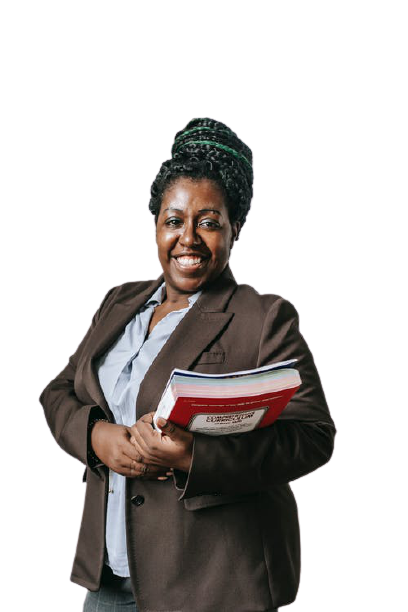
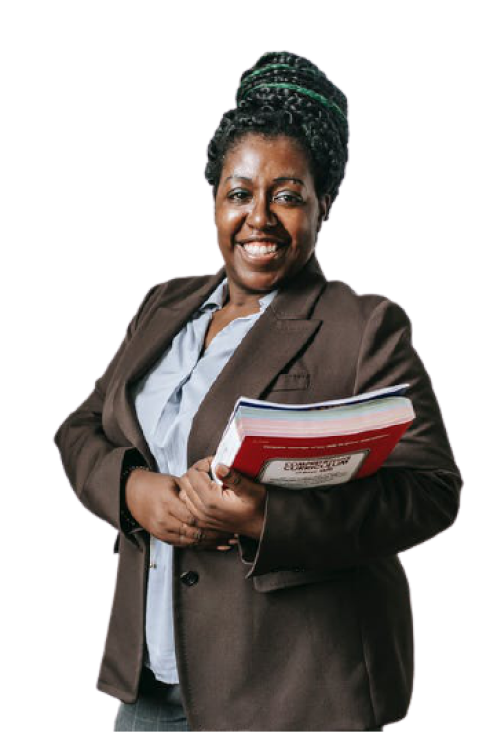
become-a-teacher modifications/fixes

diff --git a/src/containers/bctContent/Start.jsx b/src/containers/bctContent/Start.jsx
@@ -3,14 +3,14 @@ import teacher from '../../assets/img/bb-teach.png';
 import Button from '../../components/button/Button';
 
 const Start = () => (
-  <section className='relative'>
-    <div className="grid grid-cols-12 gap-y-5 gap-x-7 items-center">
+  <section className='relative mt-16 lg:mt-0'>
+    <div className="grid grid-cols-12 gap-y-0 gap-x-7 items-center">
       <div className="md:col-span-7 col-span-full mb-10" data-aos="flip-up">
         <div className="flex flex-col space-y-4">
           <h2 className="tracking-wide lg:leading-normal text-3xl md:text-3xl lg:text-4xl font-bolder text-primary-900 text-center lg:text-left">
             Start Your Teaching Career Today With LearnR
           </h2>
-          <p className="leading-relaxed text-center lg:text-left text-sm md:text-base font-medium">
+          <p className="leading-relaxed text-center lg:text-left text-sm md:text-base font-medium px-2">
             We take our mission of increasing global access to quality
             education seriously. We connect learners to the best tutors and
             courses from around the world. The quick, brown fox jumps over a
@@ -26,7 +26,7 @@ const Start = () => (
       </div>
       <div className="md:col-span-5 col-span-full" data-aos="flip-down">
         <div className="img-box">
-          <img src={teacher} alt="teacher" className="img-fluid" />
+          <img src={teacher} alt="teacher" className="img-fluid w-full" />
         </div>
       </div>
     </div>

diff --git a/src/styles/output.css b/src/styles/output.css
@@ -1501,6 +1501,10 @@ Ensure the default browser behavior of the `hidden` attribute.
           column-gap: 1.75rem;
 }
 
+.gap-y-0{
+  row-gap: 0px;
+}
+
 .space-x-3 > :not([hidden]) ~ :not([hidden]){
   --tw-space-x-reverse: 0;
   margin-right: calc(0.75rem * var(--tw-space-x-reverse));
@@ -3042,6 +3046,10 @@ Ensure the default browser behavior of the `hidden` attribute.
 
   .lg\:-mt-28{
     margin-top: -7rem;
+  }
+
+  .lg\:mt-0{
+    margin-top: 0px;
   }
 
   .lg\:block{
